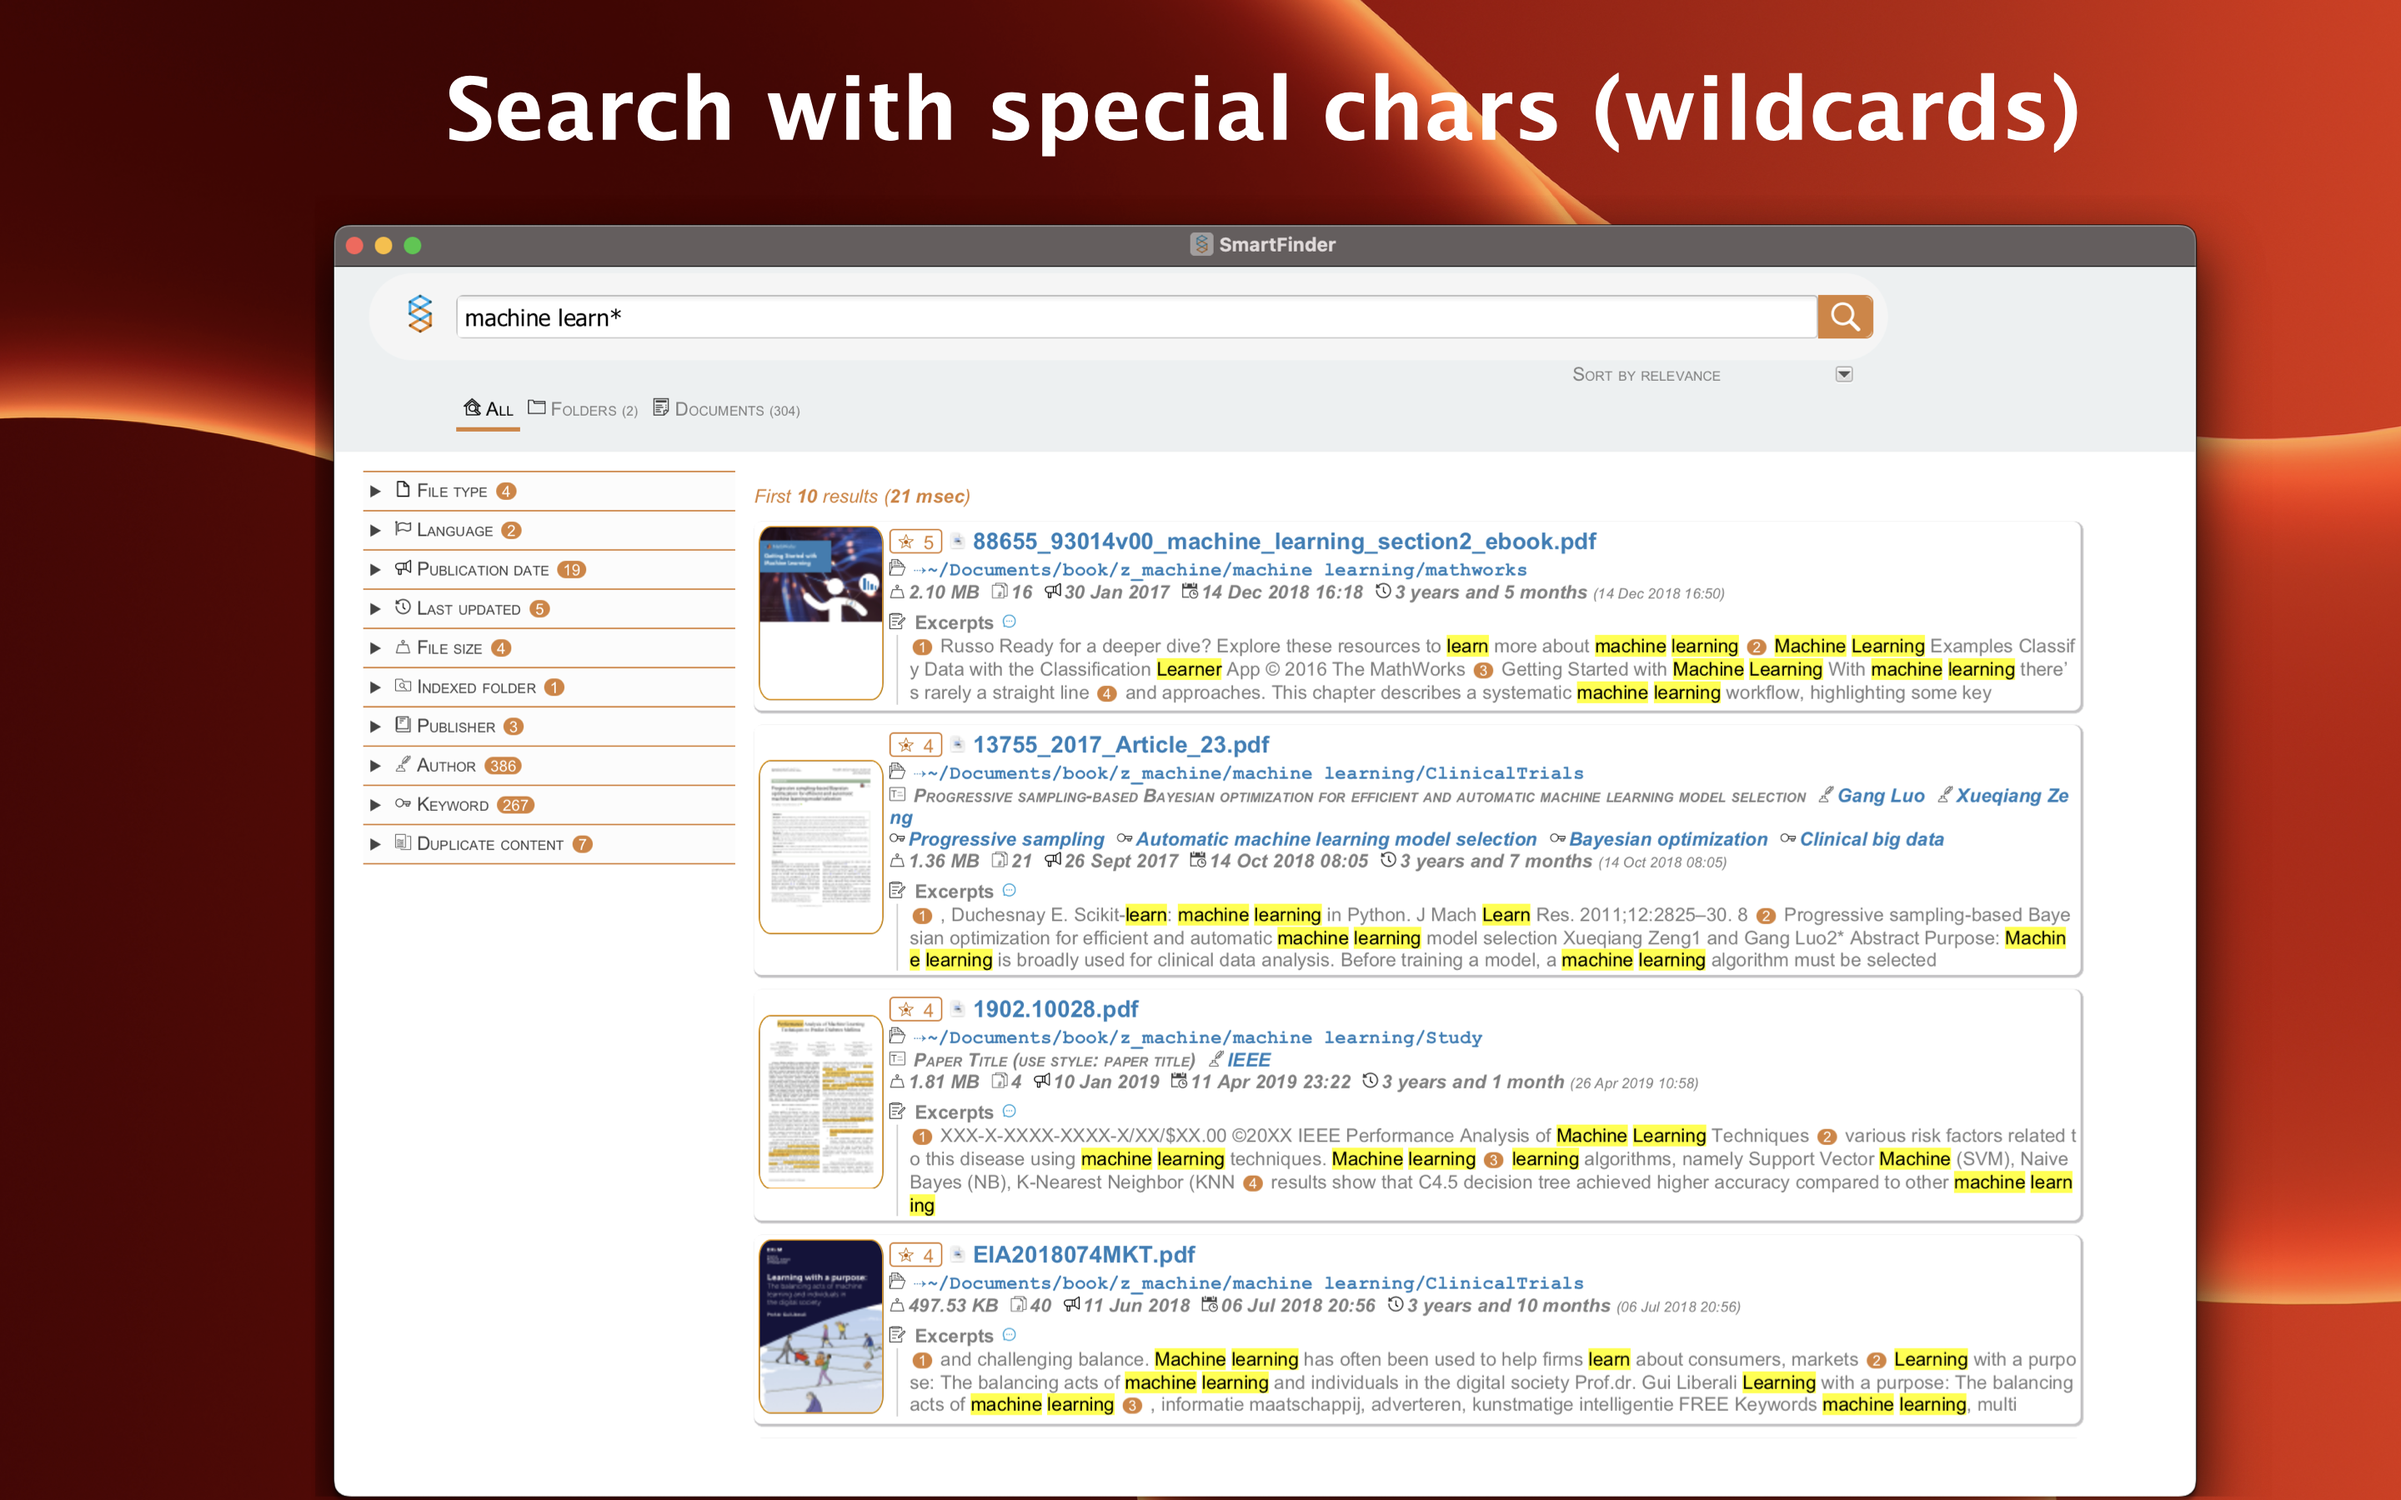
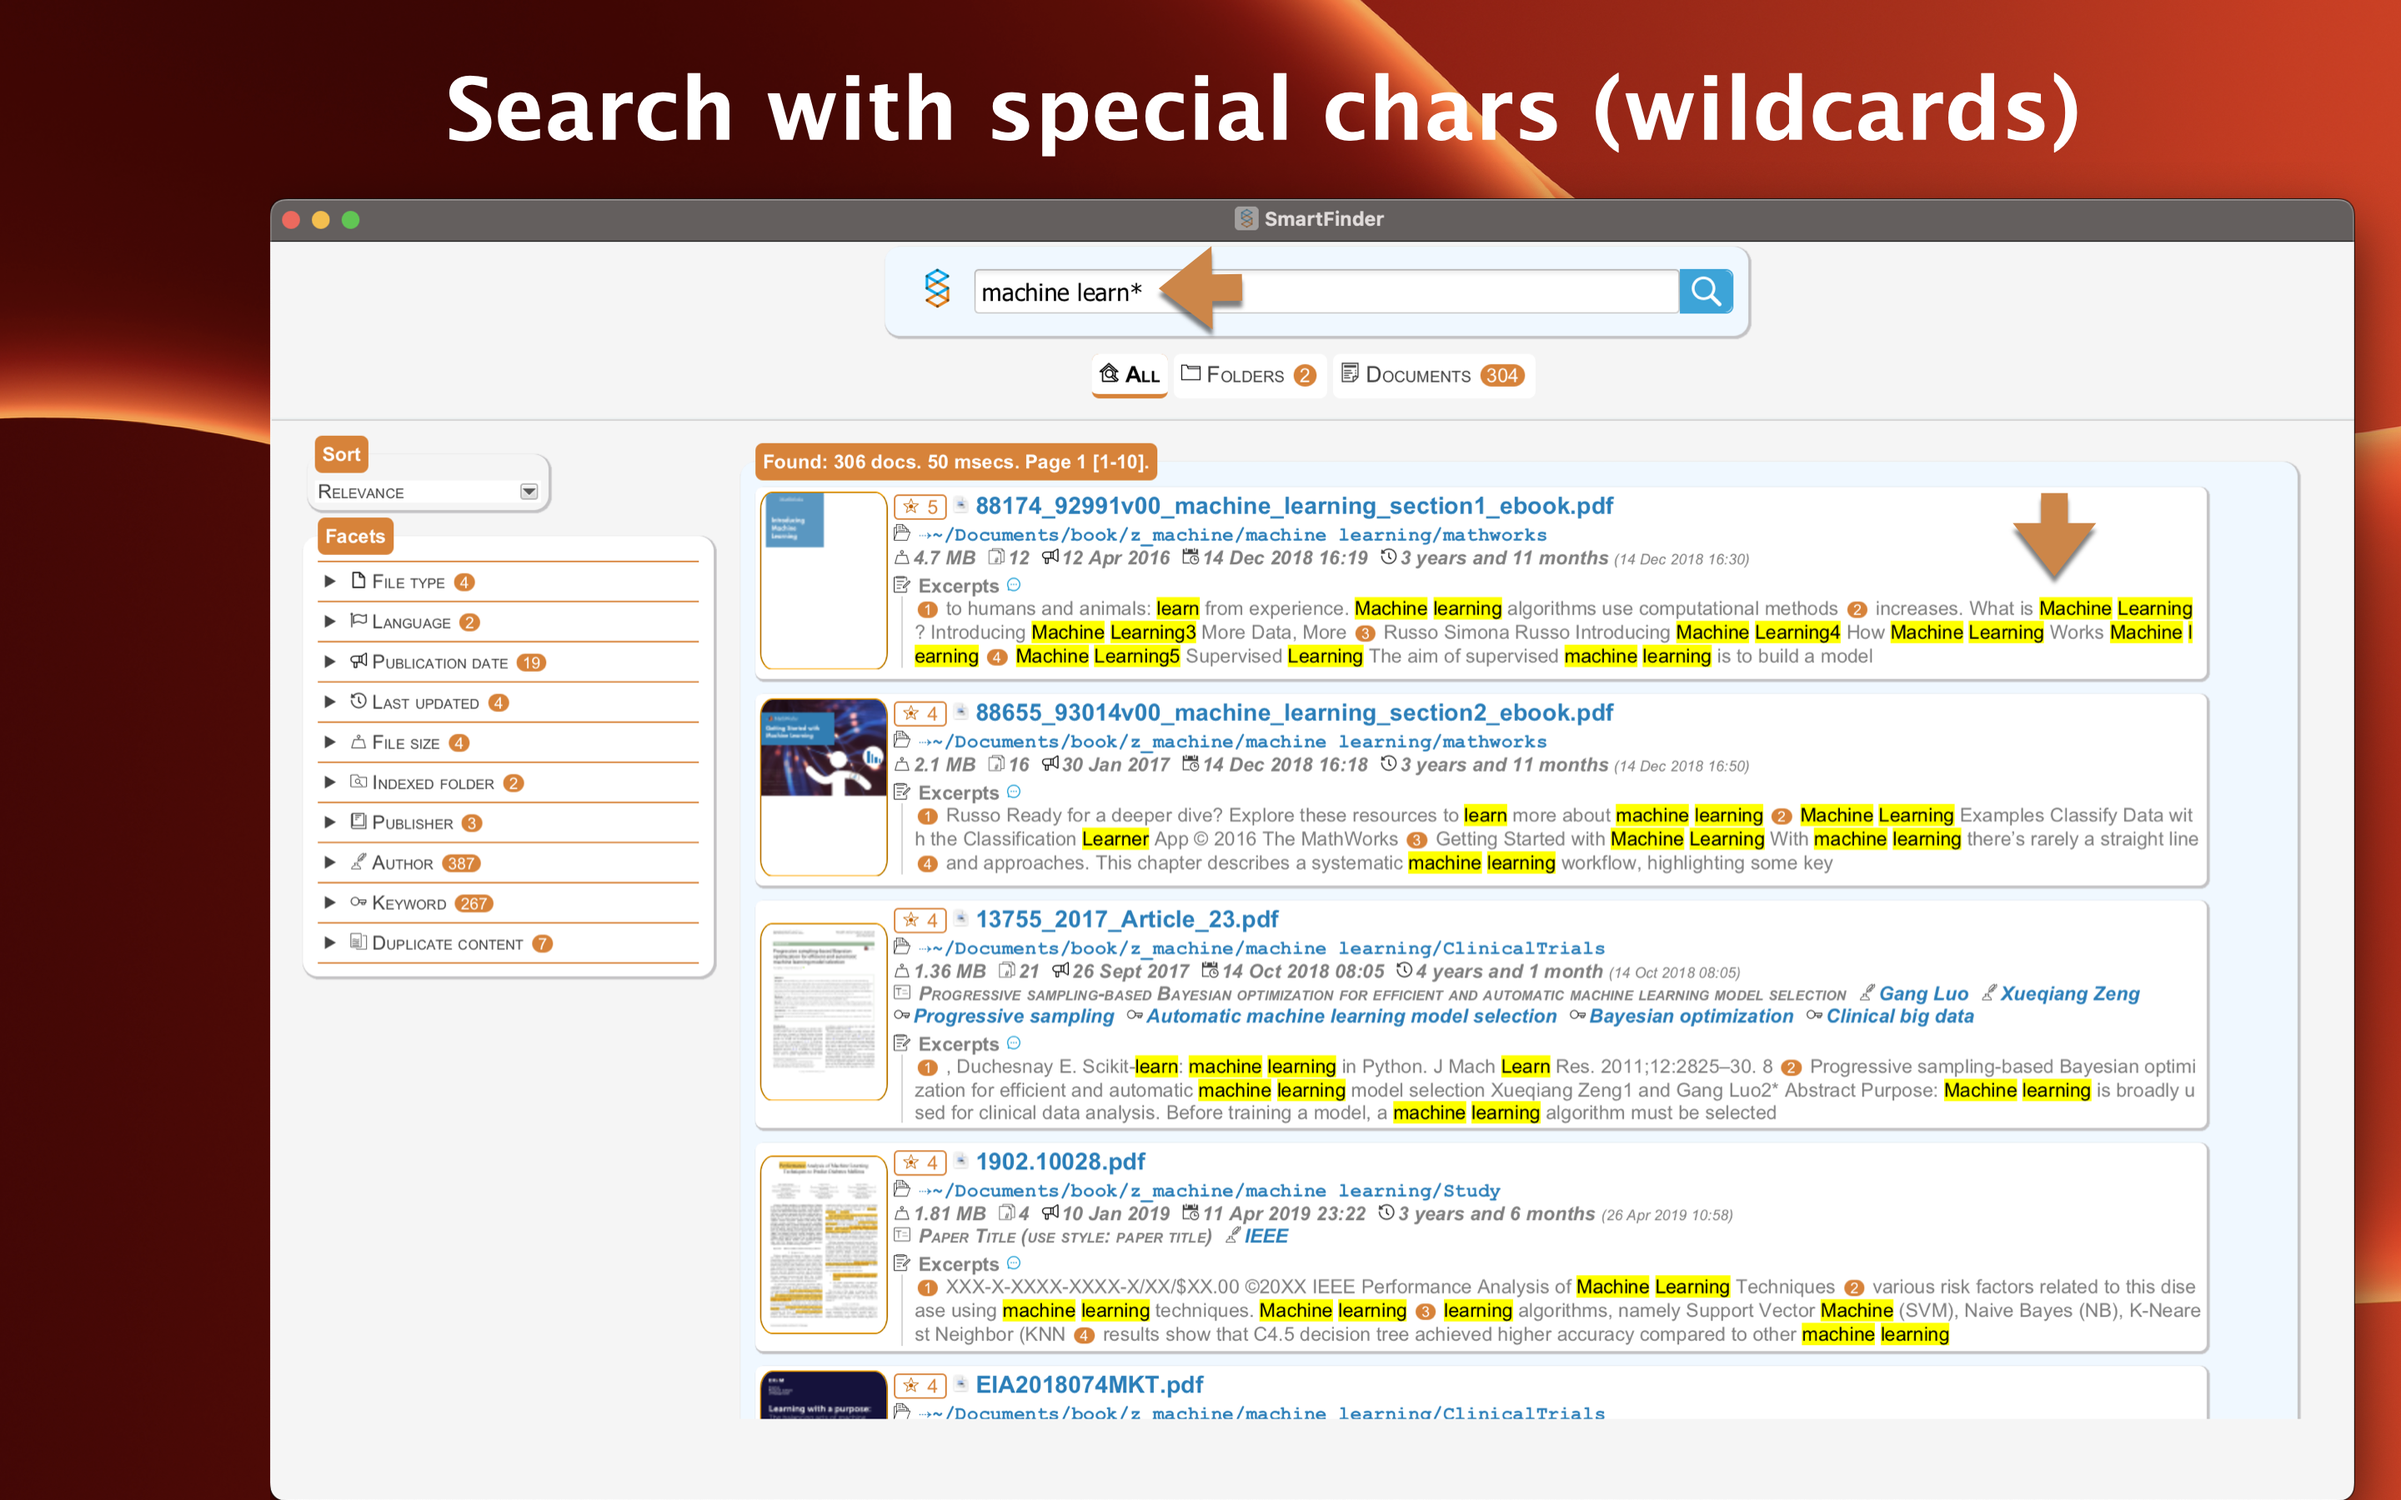
Update SmartFinder screen-shot and description

Changed region(s): [[0.0938, 0.1244, 1.0, 1.0], [0.2188, 0.2489, 0.3125, 0.28], [0.5938, 0.2489, 0.625, 0.28]]

diff --git a/realworld/smartfinder/readme.md b/realworld/smartfinder/readme.md
@@ -15,6 +15,22 @@ What if you need to know which files have the same content? Yes, with SmartFinde
 ## SmartFinder in action
 [SmartFinder Youtube playlist](https://www.youtube.com/playlist?list=PLG6jFnBRDFm8aOs9EZrsJ_490X1nWvsH2)
 
+## Feature
+
+* Find any combination of words to search: the words entered are searched regardless of the character type (upper or lower case) and their order;
+* Suggestion of the words to search for: while typing the word to search for, the completion of the word entered and further words relevant to the context are suggested;
+* Instant search: while typing the words to search for, the first relevant files are presented;
+* Metadata: the search results show all the most significant metadata of the document (title, authors, publisher, keywords, ..);
+* Highlight: the search results show an extract of the text for each document with the searched words highlighted;
+* Links in the search results: for each file found there are links to automatically open the found file, open the folder it belongs to and filter the results for some meta-data;
+* Search results statistics: for each search, the statistics of the files found based on the most significant meta-data will be displayed;
+* Refine your search: you can refine your search with the metadata of the document (author, publisher, keyword, ...) or through the category to which it belongs (video, audio, ebook, ...);
+* Sort the results: you can sort the results by relevance, size, last update date;
+* Search with special characters: you can use special characters to find sets of words or to exclude words;
+* Duplicate files: Instantly detect if there are duplicate files (same content). All duplicate files related to the found document are presented in the search results;
+* SmartFinder wherever you want! You can also use SmartFinder from your browser and share the use remotely even with all the devices on your network: read your Desktop files from your mobile phone!;
+* Search also on virtual folders: you can search on all the folders you share on your disk such as Dropbox, OneDrive or ICloud!
+
 ## Some screenshots
 
 ![Screen 1](screen-shot-1.png)
